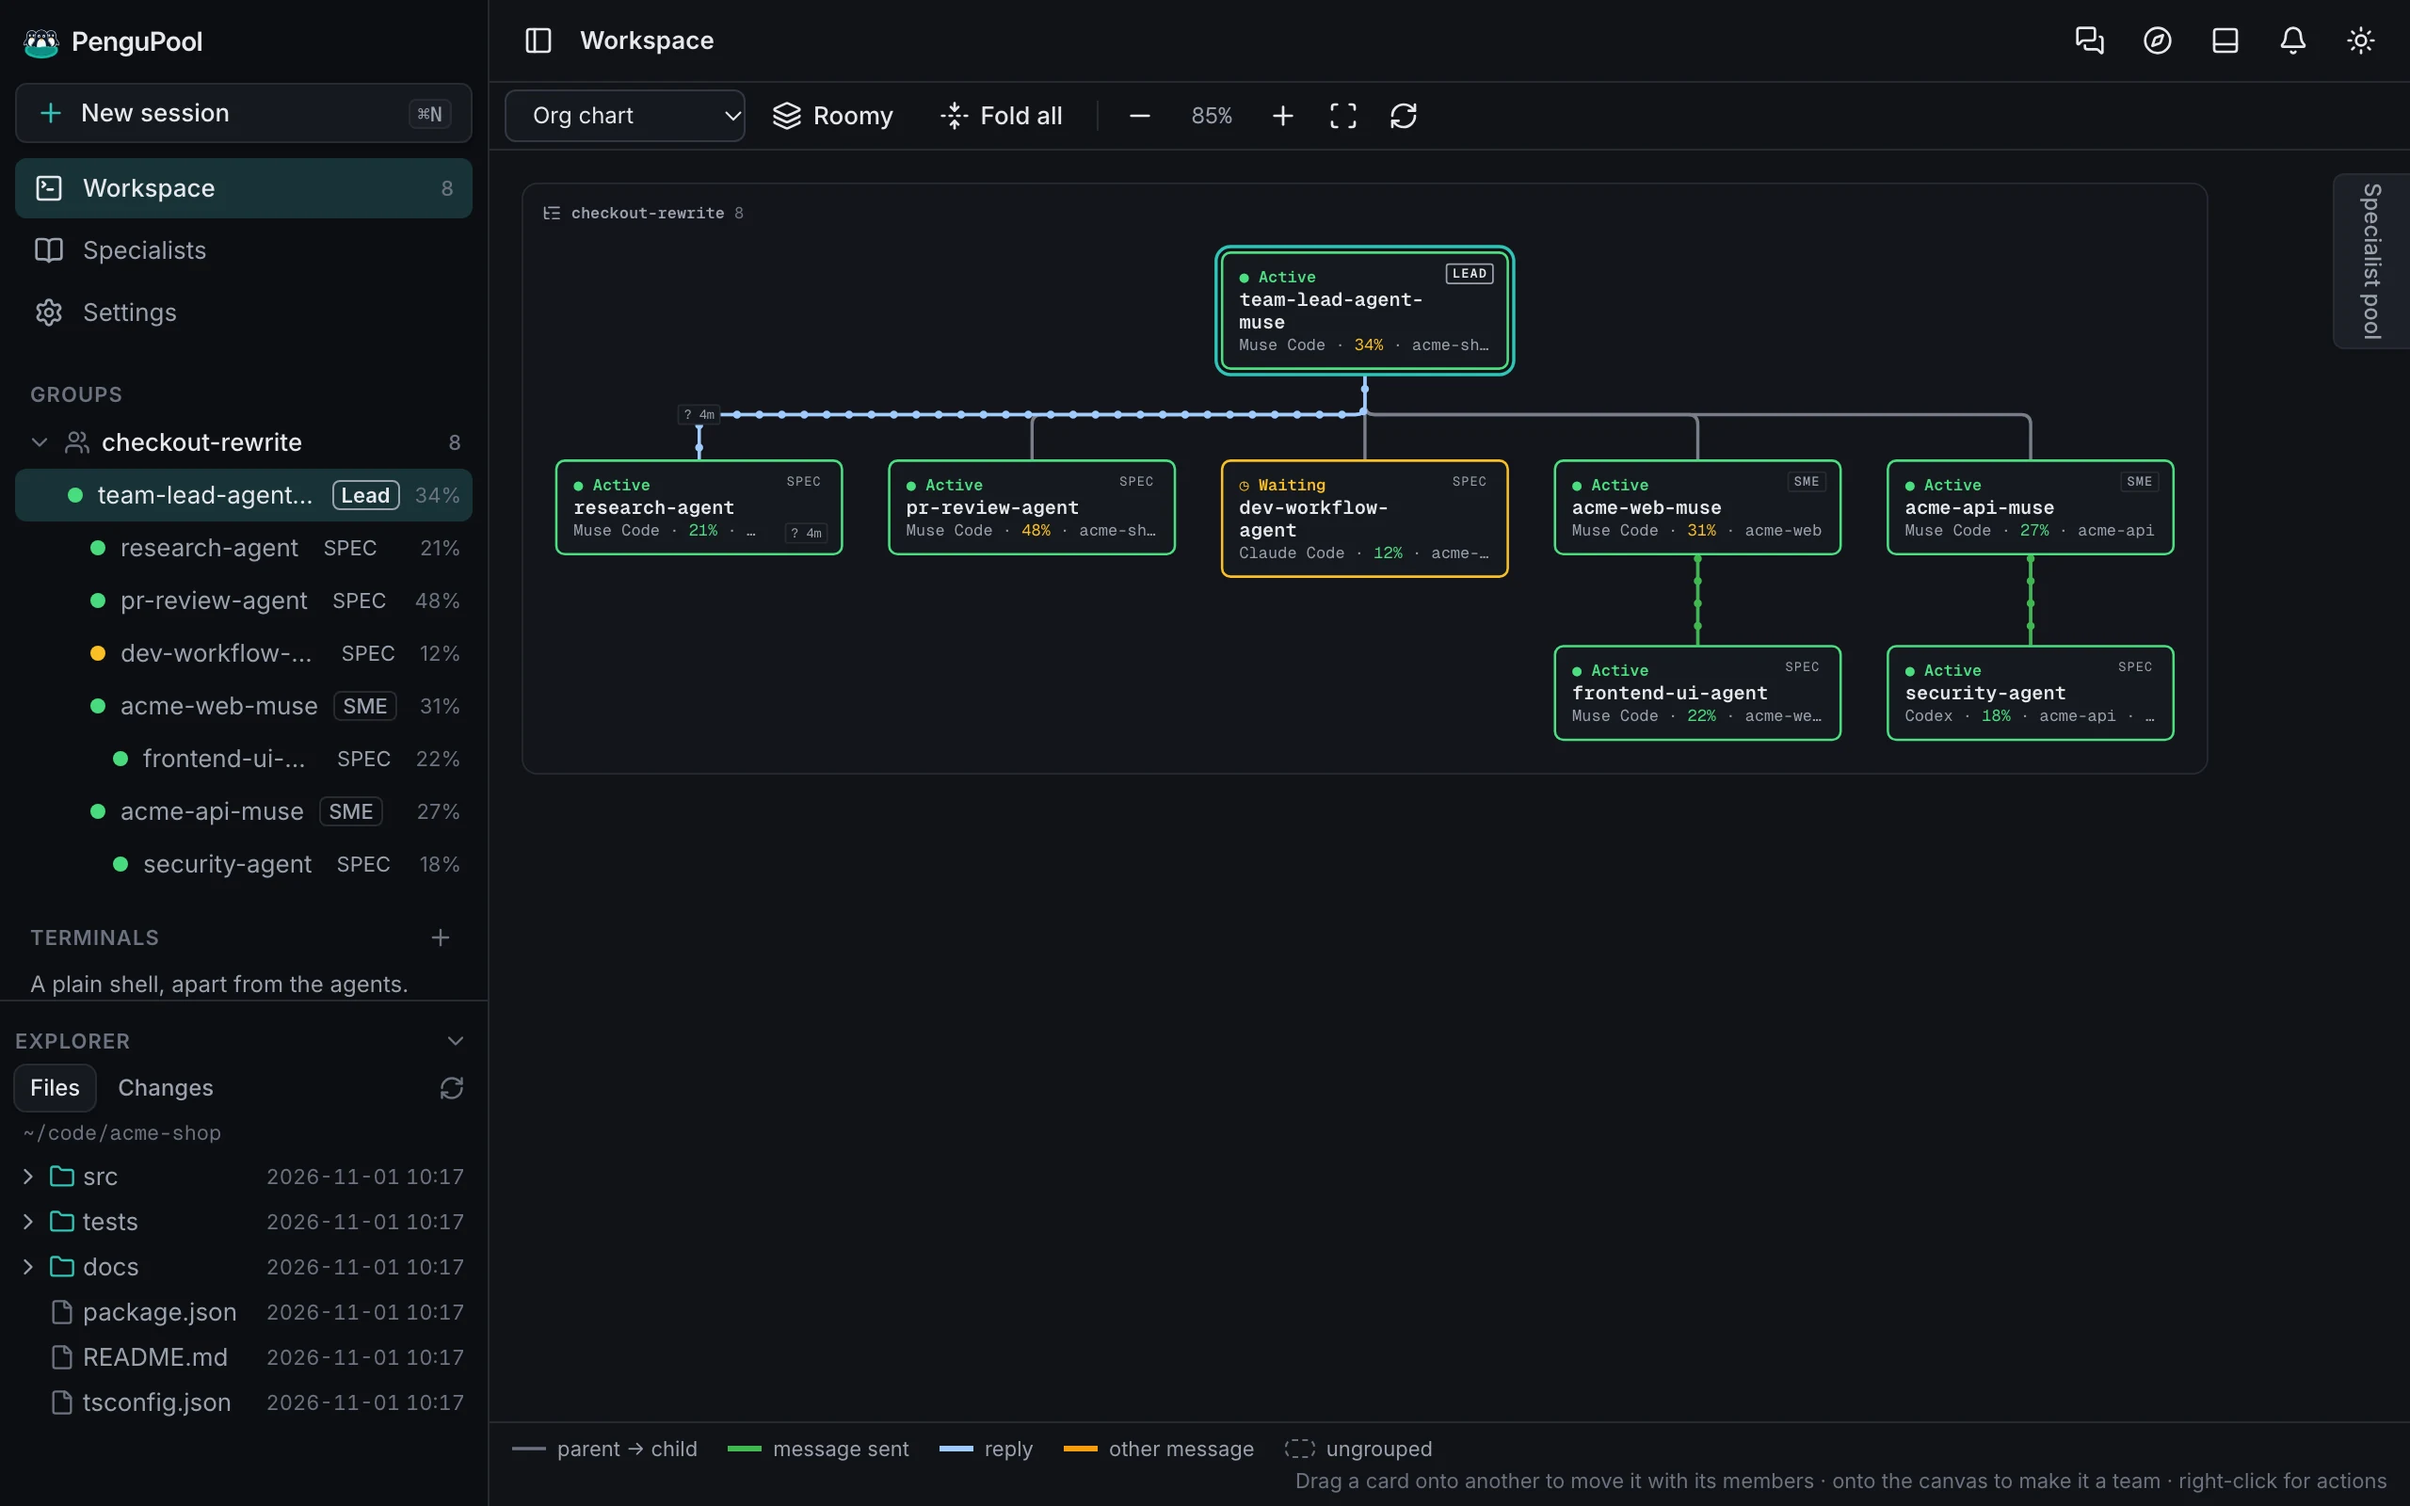
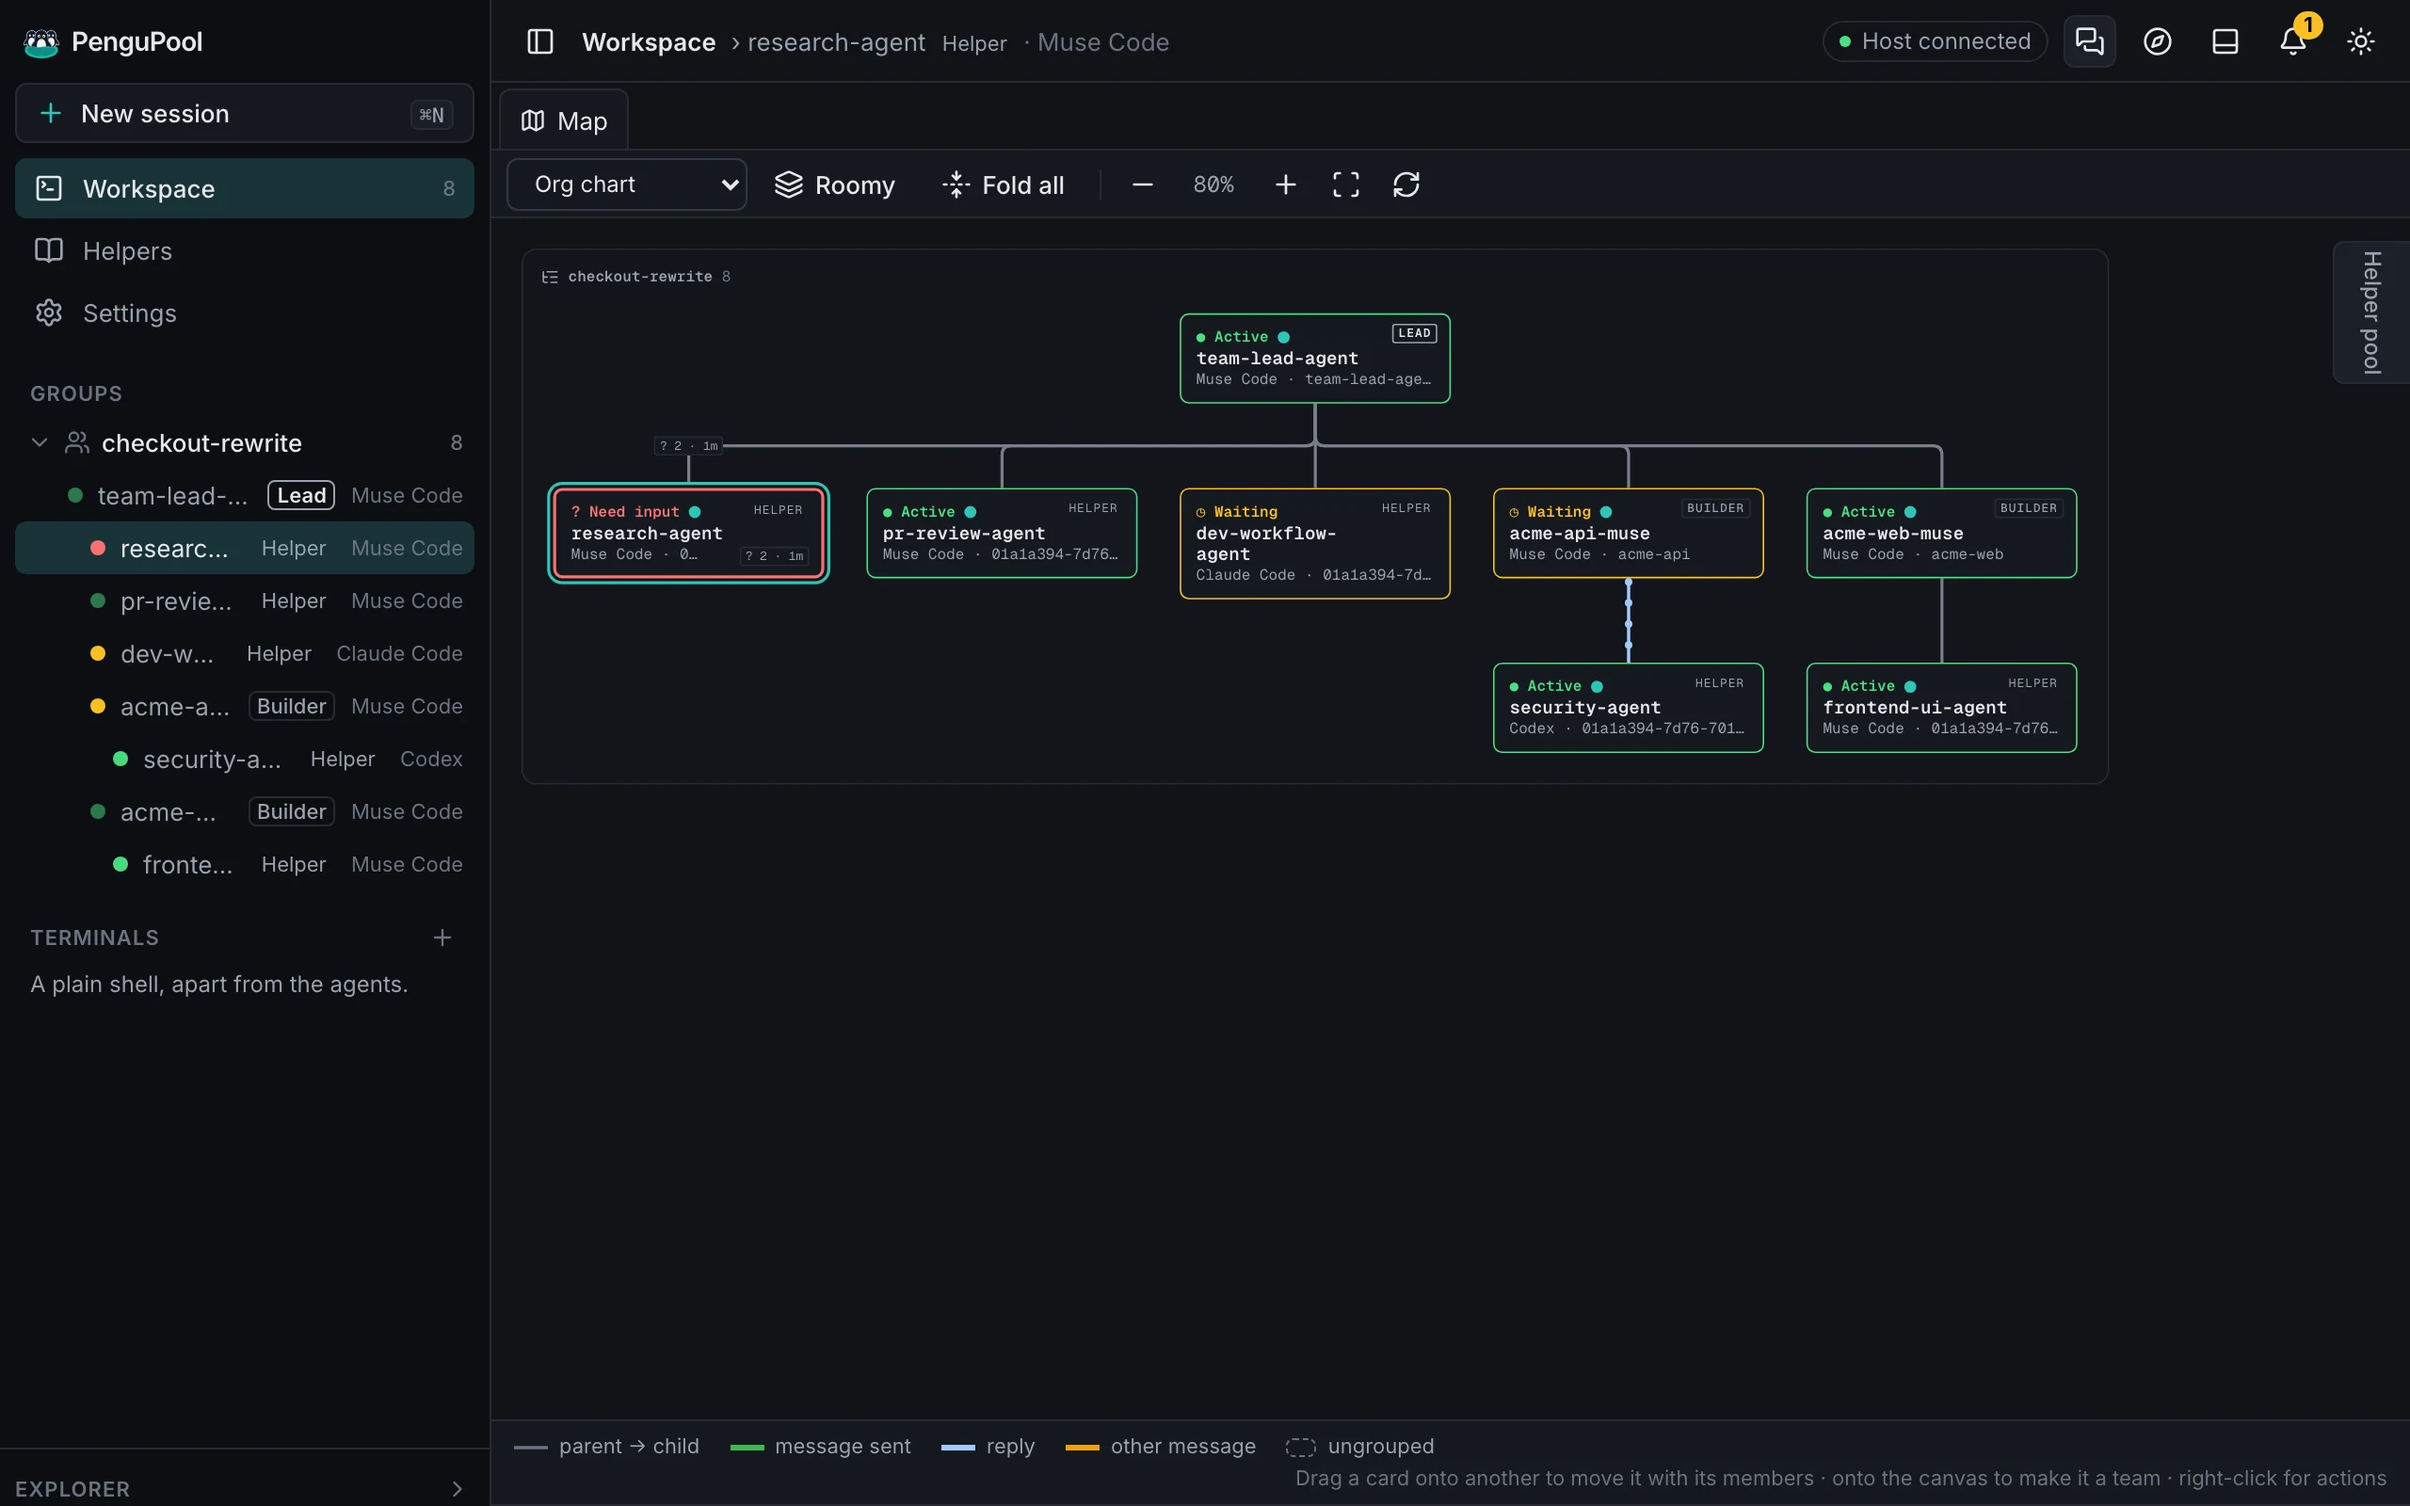
README media for 0.11.2: new stills and demo loops with Helper and Builder, ? Need input
Replace the five screens (light and dark) and both demo loops with captures of the shipping
0.11.2 UI on demo data. The first loop is now readme-a-team.gif (readme-a-specialist.gif is
removed). Alt text in README and docs follows the new frames; assets/README.md describes the
current diagram and screens.

diff --git a/README.md b/README.md
@@ -88,7 +88,7 @@ Claude Code, Codex, pi and OMP join the same workspace, teams and Compass as Mus
 
 <picture>
   <source media="(prefers-color-scheme: dark)" srcset="assets/screenshots/screen-map-dark.webp">
-  <img alt="The team map, three levels. team-lead-agent (LEAD, Muse Code) leads three HELPERs, research-agent and pr-review-agent (Muse Code) and dev-workflow-agent (Claude Code), and two BUILDERs. acme-api-muse (Muse Code) leads security-agent (Codex); acme-web-muse (Muse Code) leads frontend-ui-agent (Muse Code). research-agent's ask to the lead is lit, and pr-review-agent reads ? Need input." src="assets/screenshots/screen-map-light.webp">
+  <img alt="The team map, three levels. team-lead-agent (LEAD, Muse Code) leads three HELPERs, research-agent and pr-review-agent (Muse Code) and dev-workflow-agent (Claude Code), and two BUILDERs. acme-api-muse (Muse Code) leads security-agent (Codex); acme-web-muse (Muse Code) leads frontend-ui-agent (Muse Code). research-agent reads ? Need input: its question waits for you. The route from acme-api-muse to security-agent is lit with a reply." src="assets/screenshots/screen-map-light.webp">
 </picture>
 
 <sub>Illustrative UI with synthetic project data.</sub>
@@ -136,9 +136,9 @@ Step by step: [docs/getting-started.md](docs/getting-started.md).
 
 Two short loops of the app, made from real app captures with demo data:
 
-<p align="center"><img src="assets/media/readme-a-specialist.gif" width="800" alt="Starting a team from the Welcome screen: research-agent and pr-review-agent are ticked, the agent is set to Muse Code, and the team appears on the map with the lead and both members running Muse Code."></p>
+<p align="center"><img src="assets/media/readme-a-team.gif" width="800" alt="Starting a team from an empty Workspace: show Welcome, Start with a helper, research-agent and pr-review-agent ticked, the work folder ~/code/acme-shop and the agent Muse Code, then the lead appears on the map and both helpers join it, all running Muse Code."></p>
 
-<p align="center"><img src="assets/media/readme-b-compass.gif" width="800" alt="research-agent asks the lead a question, PenguPool answers it from the owner's confident Compass line, and when security-agent asks acme-api-muse a question no line covers, it goes to the owner's Waiting on you."></p>
+<p align="center"><img src="assets/media/readme-b-compass.gif" width="800" alt="research-agent asks the lead a question, PenguPool checks it against the owner's confident Compass line and the answer goes back, and when security-agent asks a question no line covers, its card reads ? Need input and the question waits for the owner in Waiting on you."></p>
 
 What the demo shows, against the [hackathon's](https://dev.meta.ai/events/global-hackathon) framing:
 

diff --git a/assets/README.md b/assets/README.md
@@ -3,9 +3,9 @@
 `logo-mono.svg` is the one-colour mark (`currentColor`) for menu-bar or print use; nothing loads it yet.
 `mascot.svg` is the full-body penguin for empty states and onboarding; it is never used as the mark.
 `screenshots/` holds the README and help-page images, each in a `-light` and a `-dark` version: the
-banner (PNG) and the welcome, start, map, ask and settings screens (WebP). They are real app components
-rendered with made-up demo data; replace them by filename.
+banner (PNG) and the welcome, start, map, ask and settings screens (WebP). They are the real app, run
+with made-up demo data; replace them by filename.
 `media/` holds the README's two demo loops (GIF, 800×500): starting a team with helpers, and an
 ask answered from the Compass. They are animated from real app captures with demo data.
-`media/muse-loop-light.png` and `media/muse-loop-dark.png` are the README's illustrated "Muse in the loop"
-diagram (1600×700): Muse Code on the Mac, the PenguPool hub, and the paired Muse app.
+`media/muse-loop-light.png` and `media/muse-loop-dark.png` are the README's "How PenguPool works" diagram
+(1600×700), under "Muse in the loop": the team tree, the Compass, the device API to the Muse app, and the four values.

diff --git a/docs/guide.md b/docs/guide.md
@@ -50,7 +50,7 @@ helper. You can list, open and delete entries on the Helpers page.
 
 <picture>
   <source media="(prefers-color-scheme: dark)" srcset="../assets/screenshots/screen-ask-dark.webp">
-  <img alt="Waiting on you: pr-review-agent (Muse Code) asks whether to approve PR #12, with its options, answered from the notification. The three-level team is behind it." src="../assets/screenshots/screen-ask-light.webp">
+  <img alt="Waiting on you: pr-review-agent (Muse Code) asks whether to approve PR #12, with its options, answered from the notification. Behind it, the three-level team, where pr-review-agent's card reads ? Need input." src="../assets/screenshots/screen-ask-light.webp">
 </picture>
 
 Questions, check-ins and permission prompts collect under the bell. Each shows who asks, their team,

diff --git a/docs/getting-started.md b/docs/getting-started.md
@@ -39,7 +39,7 @@ Workspace is empty.
 
 <picture>
   <source media="(prefers-color-scheme: dark)" srcset="../assets/screenshots/screen-settings-dark.webp">
-  <img alt="Settings → Decision model: a local System One model in use for triage" src="../assets/screenshots/screen-settings-light.webp">
+  <img alt="Settings → Decision model: a local System One model, tev1:0.8b, in use for triage" src="../assets/screenshots/screen-settings-light.webp">
 </picture>
 
 Settings → **Decision model**:
